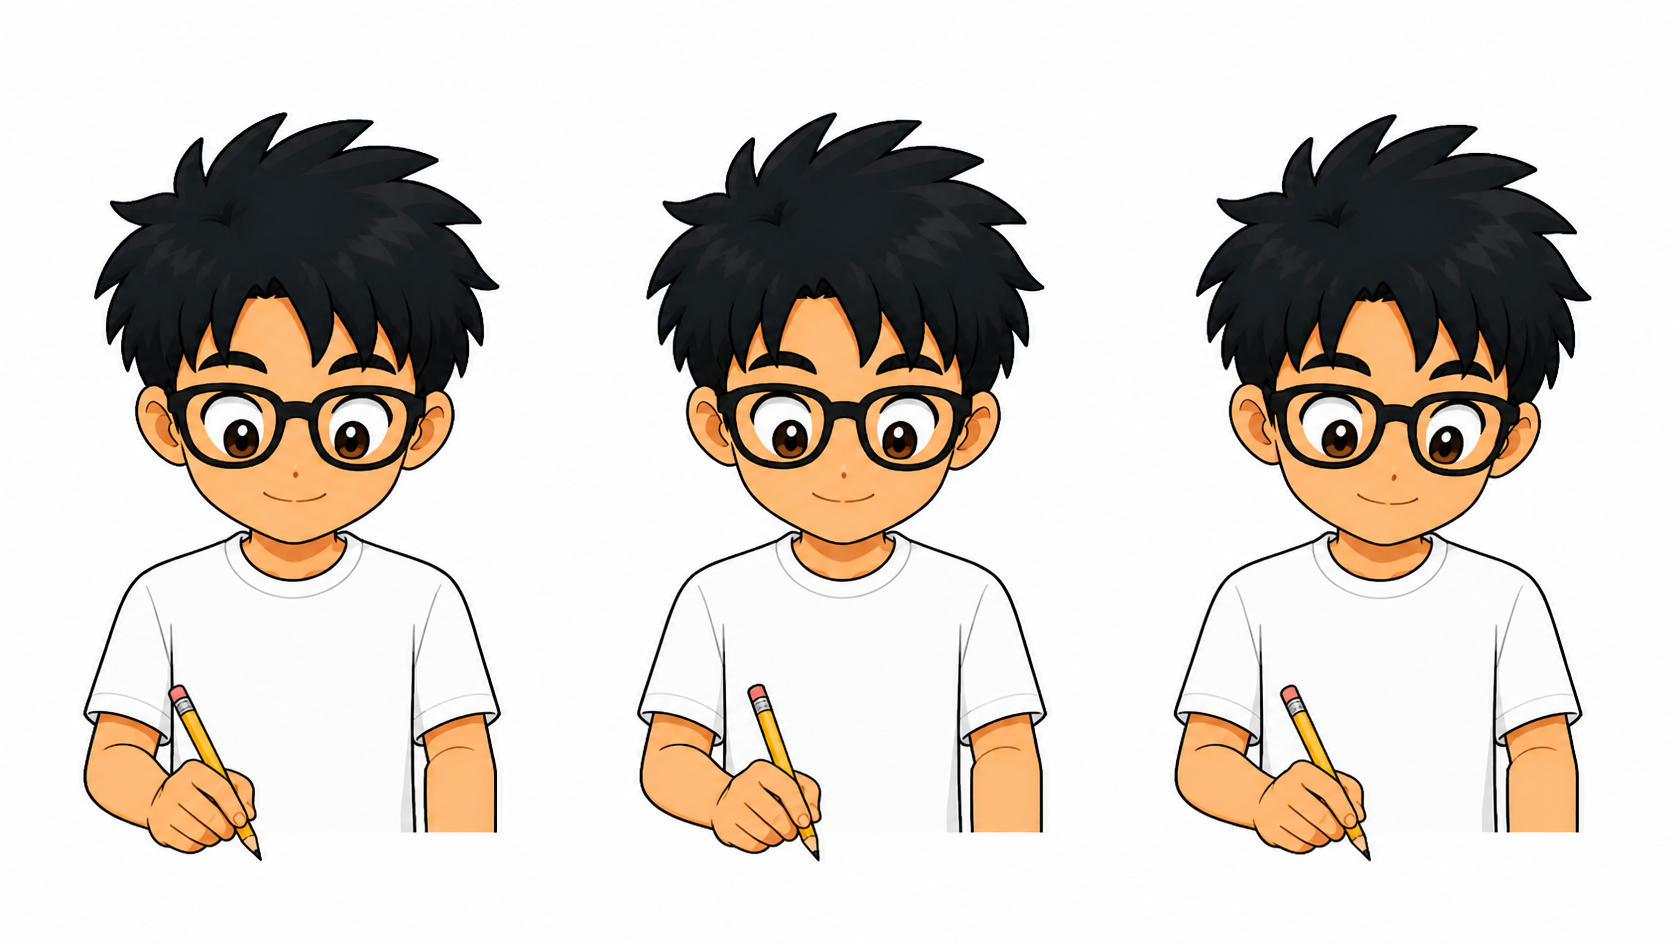
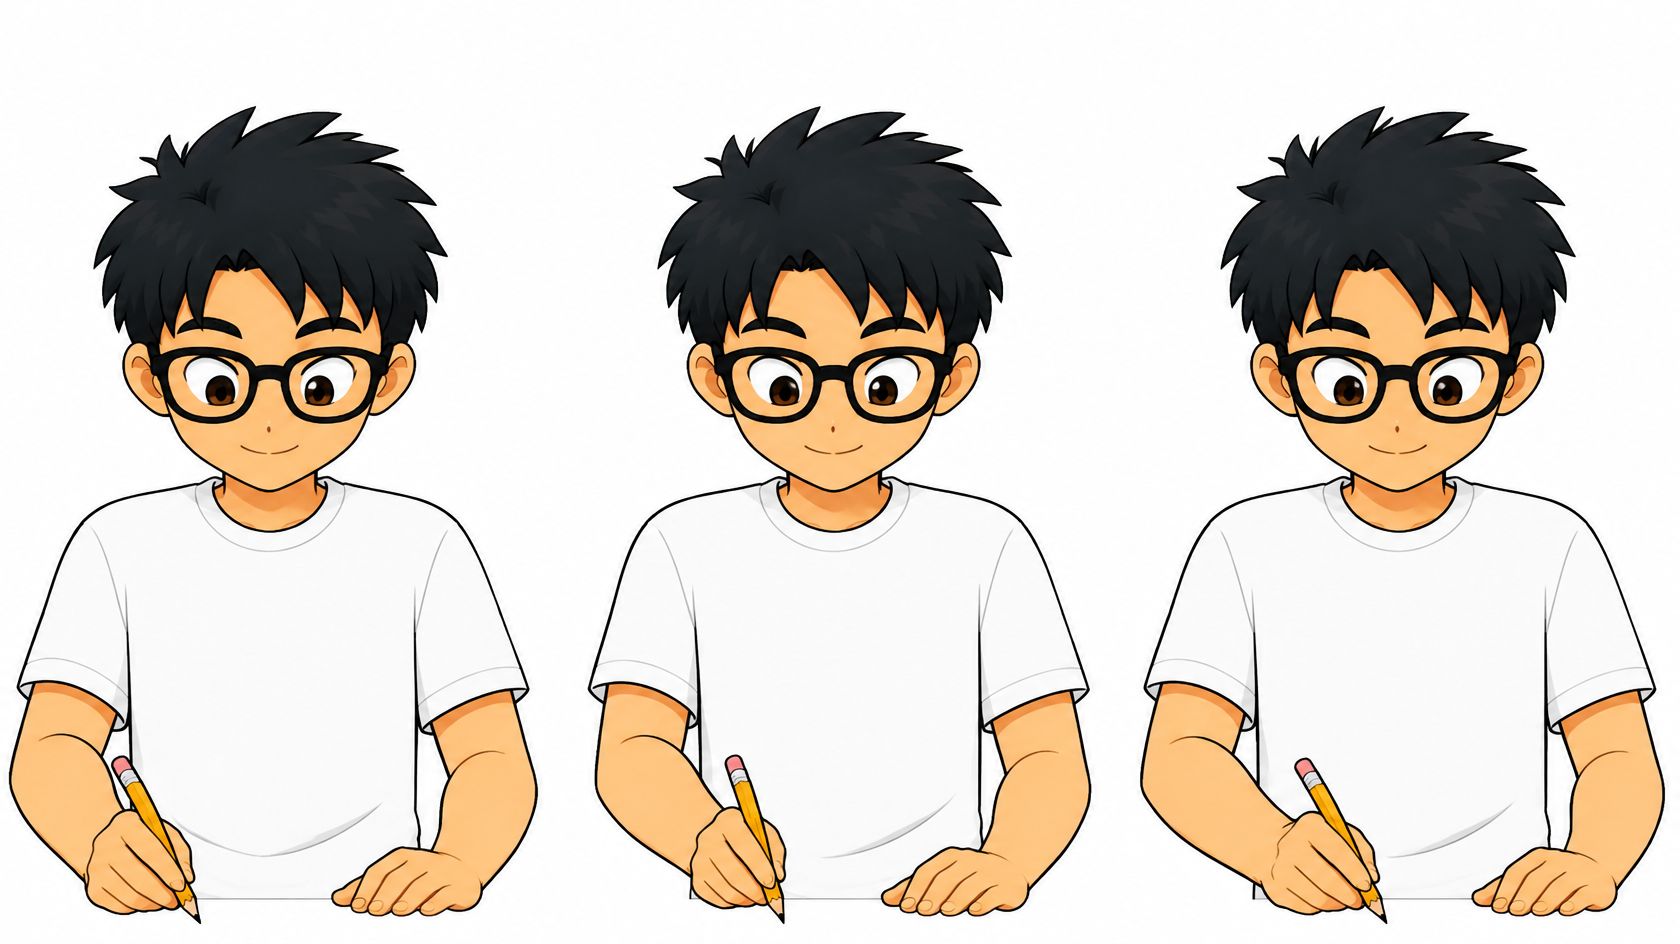
Put the pencil on the page for "Sulat"
Kylo was writing in mid-air. The cause was geometry, not the choice of
pose: his sprite is cropped at the desk's far edge, -3.01, and the open
notebook lies entirely BELOW that line, -3.84 to -3.01. Every pencil pose
in the project therefore holds the point above the top edge of the page -
lapis_frame_1, the lowest, clears the book by about half a world unit -
so cycling them gave a pencil waving over a notebook it never touched. No
wiring could have fixed that.

sulat_frame_1..3 are drawn for this and nothing else. The one thing they
have that no other pose does is the pencil tip ON THE BOTTOM EDGE of the
canvas, which is -3.01, which is the notebook's far edge - so the point
lands on the page. They differ only in where along that edge the tip
sits, which makes them a writing motion rather than a bob. The lead-in
and tail stay Scene 2's pencil poses, which cost nothing and are the same
boy by construction.

Three generations to get there, and the two failures are recorded in
Tools/make_sulat_frames.py because they will recur. The first came back
with a body 6% short. The second had the right pose at last but a big
puffy hairstyle - 323px of hair against the real 277, which the gate
reads as reach -12%, since a bigger head leaves less room for body in the
same frame. What finally worked was pinning the hair in its own words
("close to his skull, a small neat flat-topped mop, NOT a big round puffy
mass") and giving head size a comparison rather than an adjective
[…]

diff --git a/Assets/Editor/BuildPaaralanScene3.cs b/Assets/Editor/BuildPaaralanScene3.cs
@@ -58,9 +58,9 @@
 //
 //   Aklat    the textbook appears on the desk
 //   Basa     it lights up - he is reading it
-//   Sulat    DRAWN: he puts his hand on the desk, brings the pencil to the
-//            page, writes, and sits back. Built from Paaralan Scene 2's
-//            pencil poses, which are the same boy by construction.
+//   Sulat    DRAWN: he puts his hand on the desk, brings the pencil down,
+//            writes on the notebook with the point tracking across the
+//            page, lifts it and sits back.
 //   Basa     the textbook lights up - he is reading it
 //   Tanong   DRAWN: his hand rises off the desk, up past his head, holds
 //            there, and comes back down. Plays once - a hand going up is
@@ -214,8 +214,10 @@ public class BuildPaaralanScene3
         {
             "sitting_front_uniform", "prop_aklat", "prop_notebook_open",
             "prop_lapis", "item_baso", "fx_gleam",
-            // Paaralan Scene 2's pencil poses, reused for "Sulat".
-            "place_frame_3_uniform", "lapis_frame_1_uniform", "lapis_frame_2_uniform",
+            // Paaralan Scene 2's pencil poses, the lead-in and tail of "Sulat".
+            "place_frame_3_uniform", "lapis_frame_2_uniform",
+            // Drawn for "Sulat" - the only poses with the pencil on the page.
+            "sulat_frame_1_uniform", "sulat_frame_2_uniform", "sulat_frame_3_uniform",
             // Drawn for "Tanong".
             "tanong_frame_1_uniform", "tanong_frame_2_uniform", "tanong_frame_3_uniform",
             "ui_arrow", "ui_word_badge", "badge_paaralan",
@@ -306,50 +308,51 @@ public class BuildPaaralanScene3
 
         // --- "Sulat": the writing action, in four parts ---
         //
-        // BUILT ENTIRELY FROM POSES THAT ALREADY EXIST, and that is the point
-        // rather than a shortcut. A Canva strip was generated for this beat
-        // and thrown away: it fitted the canvas but came back off-model - a
-        // rounder face, a different hair silhouette, and a torso about 7%
-        // short, so forcing the arms down to the desk made the head 7% too
-        // big. Swapping between that and the real art mid-action changed who
-        // the character was, which is the one thing the animation rules say
-        // must never happen.
-        //
-        // Paaralan Scene 2's "Lapis" frames are the same boy by construction:
-        // same pipeline, same base sprite, crown on row 142 and hair within
-        // two pixels across all of them. Read in reverse they are a pencil
-        // coming DOWN to the page, which is exactly the preparation writing
-        // needs.
-        //
         //   lead-in   place_frame_3  hands come onto the desk
         //             lapis_frame_2  the pencil is in his hand, chest height
-        //             lapis_frame_1  the pencil reaches the page
-        //   loop      lapis_frame_1 <-> lapis_frame_2, the lift and return
-        //             between words. Slower than the lead-in: writing is not
-        //             frantic, and the swing is wide enough that at full
-        //             speed it waves rather than writes.
+        //   loop      sulat_frame_1..3, the pencil tracking across the page
         //   tail      lapis_frame_2  the pencil lifts away
         //             place_frame_3  hands rest on the desk
         //   idle      sitting_front_uniform
         //
-        // HONEST ABOUT WHAT THIS IS: lapis_frame_1 is the only drawing in the
-        // project with a pencil actually on the page, so the loop is a lift
-        // and return rather than a hand travelling across a line. It is real
-        // motion by the same character, which a redrawn boy would not be.
-        // Replace the loop with purpose-drawn frames when they exist and are
-        // on model - only loopFrames changes.
+        // WHY THE LOOP IS DRAWN ART AND THE REST IS NOT. The lead-in and tail
+        // are Paaralan Scene 2's pencil poses, which are the same boy by
+        // construction - same pipeline, same base sprite, crown on row 142
+        // and hair within two pixels of every other seated frame. Read in
+        // reverse they are a pencil coming down towards the page, which is
+        // the preparation writing needs, and they cost nothing.
+        //
+        // The loop could NOT be built that way, and the reason is geometry
+        // rather than taste. This sprite is cropped at the desk's far edge,
+        // -3.01, and the open notebook lies entirely BELOW that line, from
+        // -3.84 to -3.01. So every pencil pose in the project holds the point
+        // in mid-air above the top edge of the page - lapis_frame_1, the
+        // lowest of them, still clears the book by about half a unit. Cycling
+        // those frames gave a pencil waving over a notebook it never touched.
+        //
+        // sulat_frame_1..3 are drawn for this and for nothing else: the one
+        // thing they have that no other pose does is the PENCIL TIP ON THE
+        // BOTTOM EDGE OF THE CANVAS. That edge is -3.01, which is the
+        // notebook's far edge, so the point lands on the page. The three
+        // differ only in where along that edge the tip sits, which is what
+        // makes them a writing motion rather than a bob.
+        //
+        // It took three generations to get them. The first came back with a
+        // 6% short body, the second with the right pose but a hairstyle a
+        // tenth too large; Tools/check_pose_strip.py measured both and
+        // Tools/make_sulat_frames.py records what finally had to be pinned.
         PoseSequence sulatFrames = seatGO.AddComponent<PoseSequence>();
         sulatFrames.target = seatGO.GetComponent<SpriteRenderer>();
         sulatFrames.frames = new[]
         {
             LoadSpriteOptional("place_frame_3_uniform"),
             LoadSpriteOptional("lapis_frame_2_uniform"),
-            LoadSpriteOptional("lapis_frame_1_uniform"),
         };
         sulatFrames.loopFrames = new[]
         {
-            LoadSpriteOptional("lapis_frame_1_uniform"),
-            LoadSpriteOptional("lapis_frame_2_uniform"),
+            LoadSpriteOptional("sulat_frame_1_uniform"),
+            LoadSpriteOptional("sulat_frame_2_uniform"),
+            LoadSpriteOptional("sulat_frame_3_uniform"),
         };
         sulatFrames.loopCycles = 3;
         sulatFrames.tailFrames = new[]
@@ -359,7 +362,10 @@ public class BuildPaaralanScene3
         };
         sulatFrames.destinationSprite = LoadSpriteOptional("sitting_front_uniform");
         sulatFrames.framesPerSecond = 11f * Pace;
-        sulatFrames.loopFramesPerSecond = 7f * Pace;
+        // A little quicker than the lead-in. The three frames differ only by
+        // where the point is along one line, so the motion is small and needs
+        // the rate to carry it; too slow and it reads as three still poses.
+        sulatFrames.loopFramesPerSecond = 8f * Pace;
         // OFF, so nothing runs until the child says the word and the voice
         // recogniser accepts it. The seated Kylo is already on screen, so
         // playOnEnable here would fire the whole action the moment the scene

diff --git a/Tools/make_sulat_frames.py b/Tools/make_sulat_frames.py
@@ -1,48 +1,63 @@
-"""Cut writing frames for "Sulat" out of a generated strip.
+"""Cut the three "Sulat" writing frames out of one generated strip.
 
-READ THIS BEFORE RUNNING IT. The strip currently in Art/sulat_loop_raw.png was
-REJECTED, and the frames it produces are not in the project. The script is
-kept because the pipeline is right and a better generation should drop
-straight into it.
+WHAT THEY ARE, and why they had to be drawn at all. These are the loop body
+of the writing action - the lead-in and the tail come from Paaralan Scene 2's
+pencil poses, which cost nothing and are the same boy by construction.
 
-WHAT WENT WRONG, so the next prompt can avoid it. The generation was made from
-sitting_front_uniform as the design reference and came back close enough to
-fool a thumbnail, but wrong in three ways once fitted:
+The loop could not be built that way, for a reason of geometry rather than
+taste. The seated sprite is cropped at the desk's far edge, world -3.01, and
+the open notebook lies entirely BELOW that line, from -3.84 to -3.01. So
+every pencil pose already in the project holds the point in mid-air above the
+top edge of the page: lapis_frame_1, the lowest of them, still clears the
+book by about half a world unit. Cycling those gave a pencil waving over a
+notebook it never touched.
 
-  1. The body was drawn about 7% short relative to the head. Fitting by hair
-     cap, which is what fit_strip does and what keeps every other pose on
-     model, therefore left the arms 55 rows above the canvas bottom - and that
-     bottom edge IS the desk, so he floated with background under his elbows.
-  2. Fitting instead to BOTH the crown row and the desk edge closed the gap
-     but made the head 7-8% larger than the base sprite's.
-  3. Worse than either: it was not the same boy. Rounder face, wider jaw,
-     larger eyes, a different hair silhouette. Cutting between that and the
-     real art mid-action changes who the character is, which the project's
-     animation rules forbid outright. See Docs/AnimationStandard.md.
+The one thing these three have that no other pose does is THE PENCIL TIP ON
+THE BOTTOM EDGE OF THE CANVAS. That edge is -3.01, the notebook's far edge,
+so the point lands on the page. They differ only in where along that edge the
+tip sits, which is what makes them writing rather than bobbing.
 
-WHAT THE SCENE DOES INSTEAD. Paaralan Scene 3's "Sulat" is built from poses
-that already exist - place_frame_3 and lapis_frame_1..2, Scene 2's pencil
-poses. They are the same boy by construction: same pipeline, same base sprite,
-crown on row 142 and hair within two pixels across all of them. The trade is a
-loop that lifts and returns rather than a hand travelling across the page,
-because lapis_frame_1 is the only drawing in the project with a pencil
-actually on the paper.
+THREE GENERATIONS. Worth recording, because the same two faults will come
+back on the next pose:
 
-IF YOU REGENERATE. Pin the two things that failed:
-  - "the torso must be the same width and length as the reference, and his
-     forearms must reach the very bottom edge of the frame"
-  - pass pencil_ready_uniform as a SECOND reference alongside
-    sitting_front_uniform, so the hair and the pencil grip come from the
-    project's own art rather than being reinvented.
-Then download the full-size PNG from Canva Uploads - the API returns only a
-~200x112 thumbnail - save it over Art/sulat_loop_raw.png, and run this.
+  1. Short body. Fitting by hair cap left the arms 55 rows above the desk and
+     he floated; fitting to the desk made his head 7-8% too big. Rejected.
+  2. Right pose at last - the pencil finally reached the bottom edge - but a
+     big round puffy hairstyle instead of his tight flat-topped spikes. 323px
+     of hair against the real 277, which reads as reach -12%: a bigger head
+     leaves less room for body in the same frame. Rejected.
+  3. Accepted. Hair 251-252px, head width within 1%, colour drift 14-16
+     against a tolerance of 26.
 
-ON THE CROWN HEIGHTS. All three sit at +1.735, the same height as the seated
-pose and every other seated frame in Paaralan 2 and 3. His head does NOT move
-up or down while writing; only the arm does. A crown that drifted between
-frames would make the loop bob, and a bobbing loop is far more obvious than a
-single bad frame, because it repeats. Compare Tools/make_sit_frames.py, where
-the crown really does descend and the stepping-down is the point.
+WHAT FINALLY HAD TO BE PINNED, beyond the obvious:
+
+  - TWO references, sitting_front_uniform and lapis_frame_1_uniform, so the
+    hair and the pencil grip come from the project's own art.
+  - The hair explicitly: "close to his skull, a small neat flat-topped mop
+    with short spikes, roughly as tall as his forehead - NOT a big round
+    puffy mass". Asking for "the same hair as the reference" was not enough
+    twice running.
+  - Head size by comparison to something else: "shoulders at least twice as
+    wide as his head", "the head taking up only the top third".
+  - The pencil: "the tip must touch the very bottom edge of the image,
+    angled down about 45 degrees", and the left hand "flat and low at the
+    bottom edge, steadying the page".
+
+Fitted by hair cap, NOT flush to the bottom: these come back reaching 3.25
+heads against the base's 2.79, so they overshoot, and the excess is simply
+clipped below the desk line. Overshoot is harmless; short is not.
+
+ON THE CROWN HEIGHTS. All three sit at +1.735, the same as every other seated
+frame in Paaralan 2 and 3. He leans from the shoulders and the lean is drawn
+in, so moving the whole figure down as well would read as him sinking through
+the chair - and a crown that drifted would make the loop bob, which repeats
+and is therefore far more obvious than one bad frame.
+
+WHERE THE ART CAME FROM. Art/sulat_loop_raw.png is one Canva generation. The
+API returns only a ~200x112 thumbnail, so the full-size file is downloaded by
+hand out of Canva Uploads, which is why the raw lives in Art/. Check any
+replacement with Tools/check_pose_strip.py before using it; it refuses to
+judge a thumbnail.
 
 Writes  Assets/Sprites/sulat_frame_1..3_uniform.png
 
